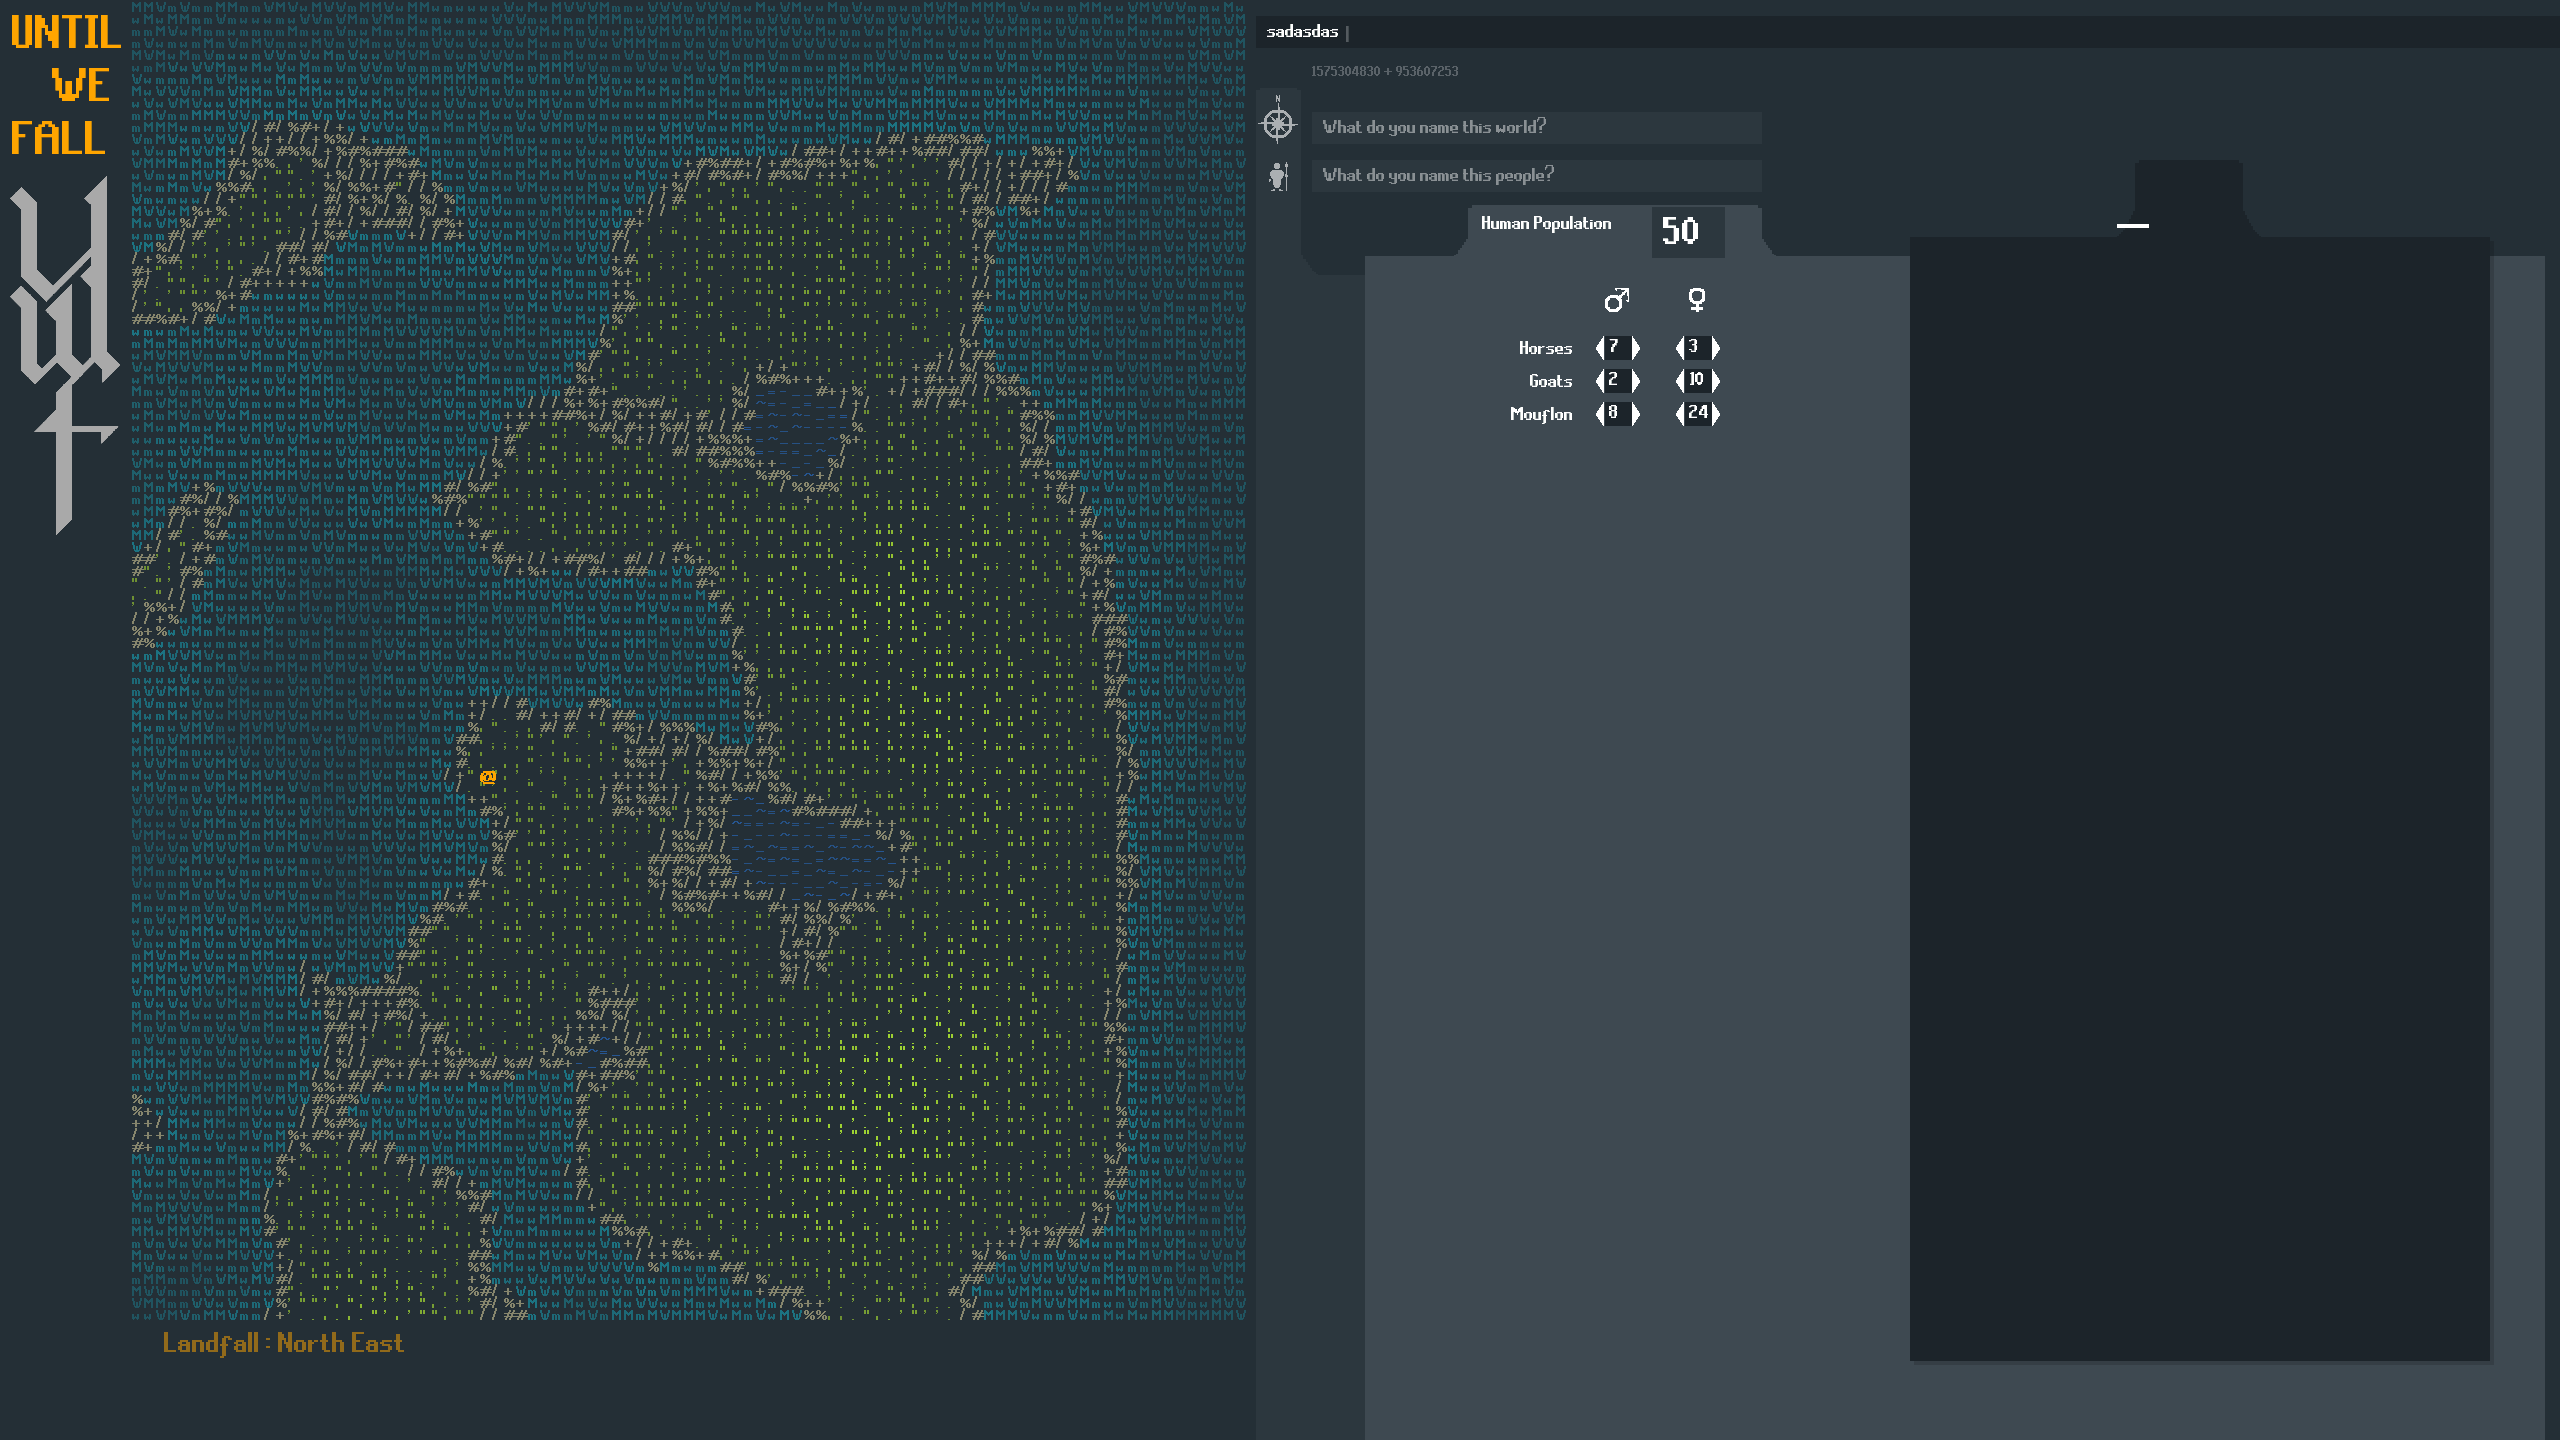
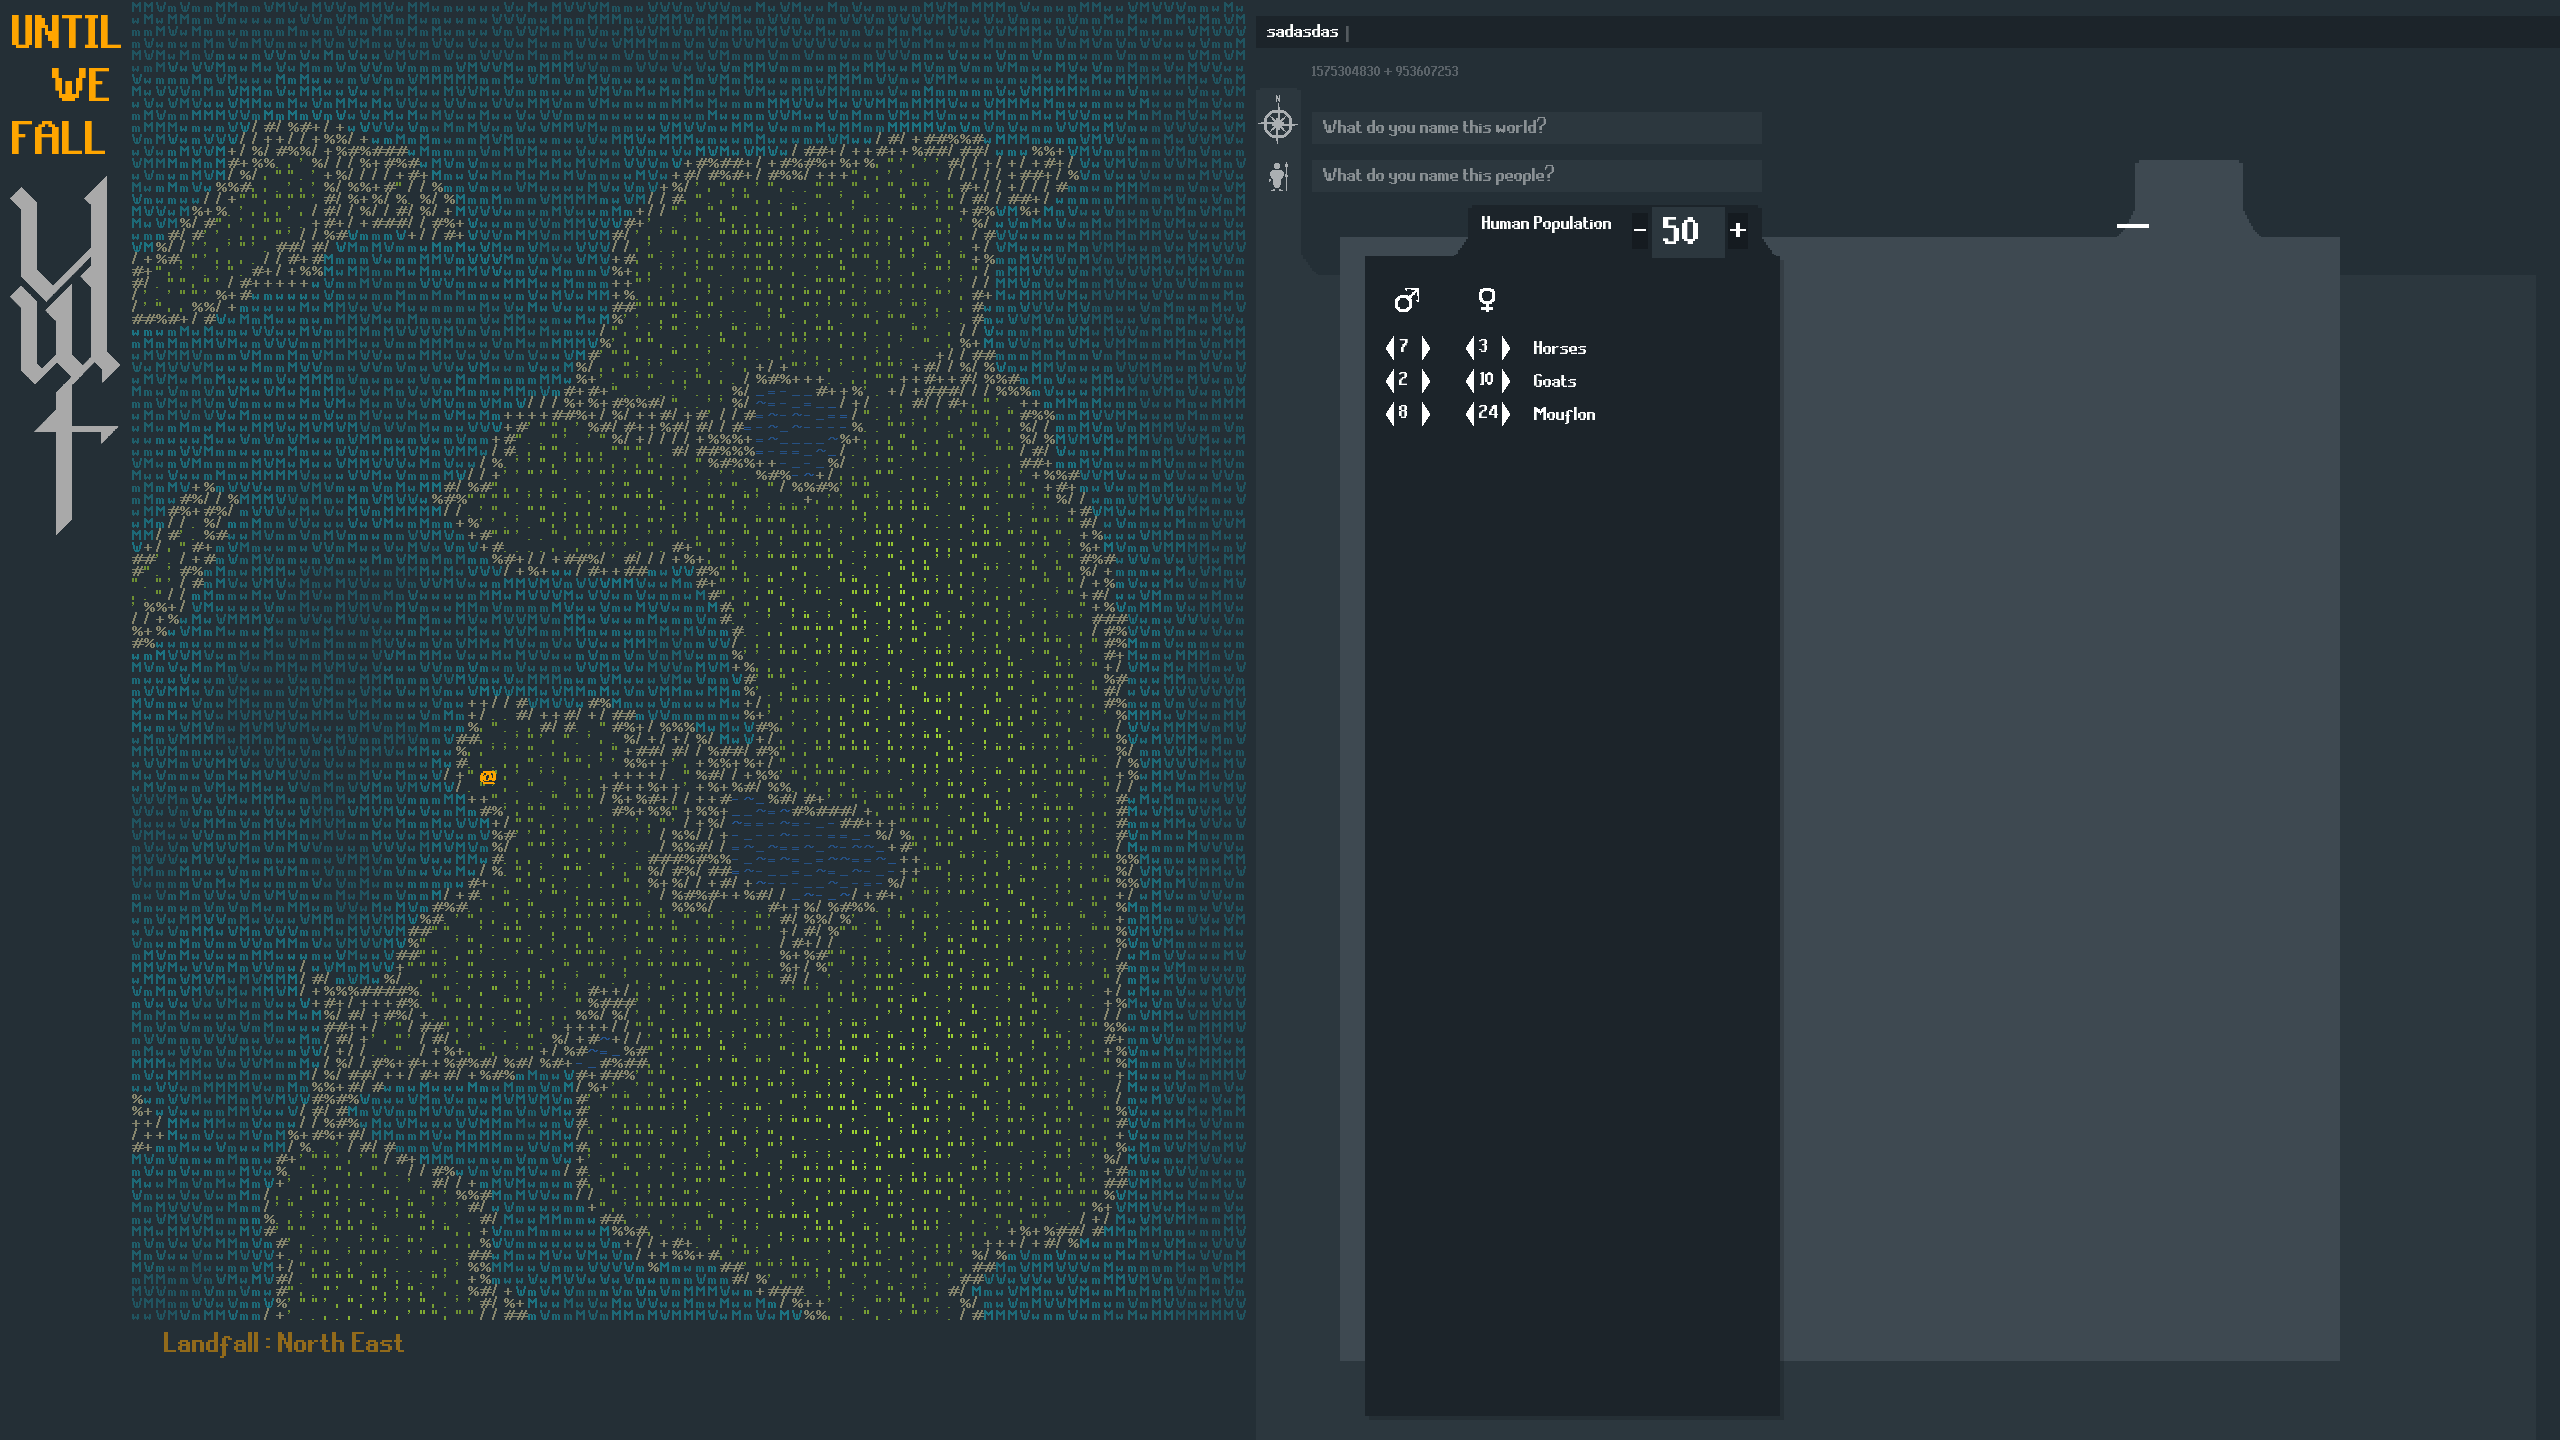
changed PAGE styles

Changed region(s): [[0.5, 0.0938, 0.9375, 1.0], [0.9688, 0.1562, 1.0, 1.0]]

diff --git a/src/UntilWeFall/GAMESTATES/Creation.cs b/src/UntilWeFall/GAMESTATES/Creation.cs
@@ -448,10 +448,10 @@ private int carabaoMale = 2, carabaoFemale = 8;
 			_traitsBodyRect = new Rectangle(rx - 24, 275, rw, rw);
 
 			_censusTabRect  = new Rectangle(rx + 170, 205, 330, 67);
-			_censusBodyRect = new Rectangle(rx + 85, 256, rw - 100, rw);
+			_censusBodyRect = new Rectangle(rx + 85, 256, 415,1160); // rw-100
 
 			_bloodTabRect  = new Rectangle(rx + 837, 160, 144, 94);
-			_bloodBodyRect = new Rectangle(rx + 630, 237, 580, 1124);
+			_bloodBodyRect = new Rectangle(rx +60, 237, 1000, 1124);
 #endregion
 			int y = _censusTabRect.Y + 10;
 			int xPlus = _censusTabRect.Right - plus_Bounds.Width - 12;
@@ -551,7 +551,7 @@ _censusTabRect.Y + 8),
 				var c = _animalCounters[i];
 
 				c.maleBounds = new Rectangle(
-					_censusBodyRect.X + 240,
+					_censusBodyRect.X + 30,
 					startY + (rowH * i),
 					(int)(Fonts.Get("16").MeasureString("99").X * 1.5f),
 					24
@@ -1060,8 +1060,8 @@ _censusTabRect.Y + 8),
 				plus.Draw(sb);
 			}  
 
-			sb.Draw(Textures.Get("male"), new Rectangle(_censusBodyRect.X + 240, _censusBodyRect.Y + 32, 24, 24), Color.White);
-			sb.Draw(Textures.Get("female"), new Rectangle(_censusBodyRect.X + 320, _censusBodyRect.Y + 32, 24, 24), Color.White);
+			sb.Draw(Textures.Get("male"), new Rectangle(_censusBodyRect.X + 30, _censusBodyRect.Y + 32, 24, 24), Color.White);
+			sb.Draw(Textures.Get("female"), new Rectangle(_censusBodyRect.X + 110, _censusBodyRect.Y + 32, 24, 24), Color.White);
 
 			/*sb.DrawString(Fonts.Get("16"), "Horse", new Vector2(_censusBodyRect.X + 12, _censusBodyRect.Y + 80), Color.White);*/
 			#region ANIMALS

diff --git a/src/UntilWeFall/UI/Counter.cs b/src/UntilWeFall/UI/Counter.cs
@@ -153,10 +153,17 @@ namespace UntilWeFall
 			);
 
 			// Value box in the middle
-			_namePos = new Vector2(
+			/*_namePos = new Vector2(
 				maleBounds.X - ((int)Font.MeasureString(Name).X + 32),
 				maleBounds.Y + 2
+			);*/
+			int namePadding = 24; // distance from female right arrow
+
+			_namePos = new Vector2(
+				fem_rightRect.Right + namePadding,
+				maleBounds.Y + 2
 			);
+
 
 			male_btnLeft.Bounds = male_leftRect;
 			male_btnRight.Bounds = male_rightRect;
